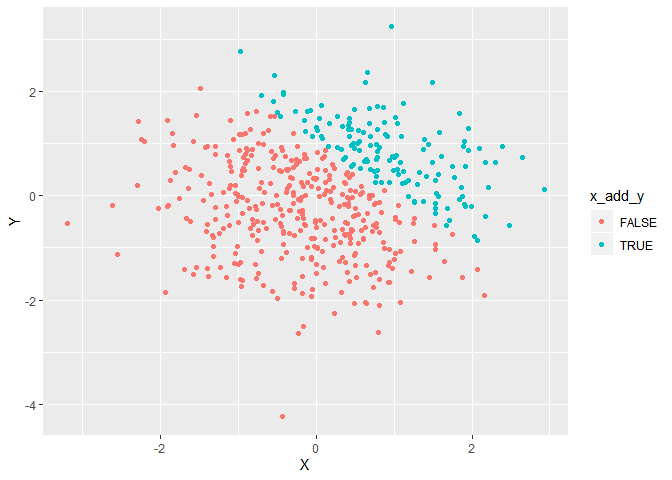
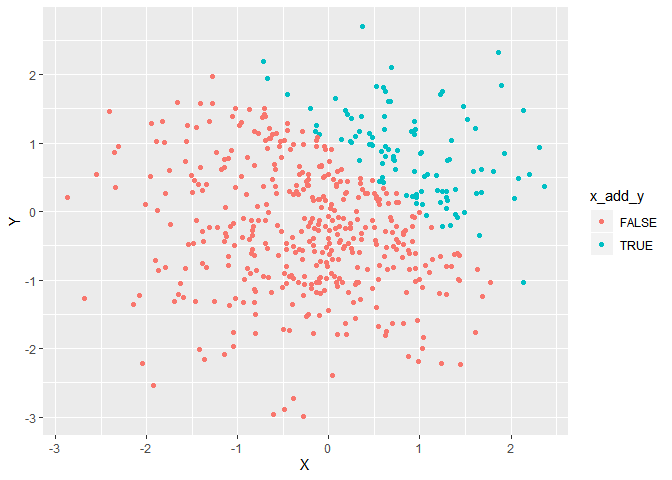
Add annotation to Q1S2

diff --git a/p8105_hw1_fj2269.md b/p8105_hw1_fj2269.md
@@ -39,7 +39,7 @@ mean(as.numeric(pull(frame_one, vec_factor)))
 ```
 
 *Factor vector and logical vector can be converted to numeric and
-calculate mean for ordinal variable and nominal variable in them is
+calculate mean for ordinal variable and binary variable in them is
 ranked. Character vector does not have level and does not have
 mean.*
 
@@ -49,8 +49,7 @@ mean.*
 as.numeric(pull(frame_one, norm_samp_pos))*pull(frame_one, norm_samp)
 ```
 
-    ## [1] 0.96800187 0.00000000 0.04791483 0.77831683 0.93766268 1.45256939
-    ## [7] 0.12690121 1.95893565
+    ## [1] 0.000000 1.149128 1.525452 0.000000 1.797267 0.000000 0.000000 1.230126
 
 ``` r
 as.factor(pull(frame_one, norm_samp_pos))*pull(frame_one, norm_samp)
@@ -62,11 +61,17 @@ as.factor(pull(frame_one, norm_samp_pos))*pull(frame_one, norm_samp)
 as.numeric(as.factor(pull(frame_one, norm_samp_pos)))*pull(frame_one, norm_samp)
 ```
 
-    ## [1]  1.93600373 -0.31052719  0.09582966  1.55663366  1.87532536  2.90513878
-    ## [7]  0.25380243  3.91787130
+    ## [1] -0.2676653  2.2982562  3.0509035 -0.2641927  3.5945348 -1.1301450
+    ## [7] -0.8979589  2.4602522
 
 *Only When the two vector are both numeric vector can they multiple with
 each other.*
+
+*When binary variables without level were convert to numeric, TRUE turns
+to 1 and FALSE turn to 0. In contrary, when we use as.numeric, variables
+in factor vector are converted from 1 to n according to level. For
+binary variables in factor vector, TRUE turns to 2 and FALSE turns to
+1.*
 
 ## Question 2
 
@@ -82,10 +87,13 @@ frame_two = tibble(
 )
 ```
 
-*This frame have 500 row and 5 column.* *The mean of x is 0.0779776, the
-median of x is 0.0995785, the standard deviation of x is 0.9955209.*
+*This frame have 500 row and 5 column.*
+
+*The mean of x is -0.0316123, the median of x is -0.0074874, the
+standard deviation of x is 0.9562239.*
+
 *The proportion of cases for which x + y \> 1 is
-0.282.*
+0.2.*
 
 ### Step 2: Make three scatterplot of x vs y
 
